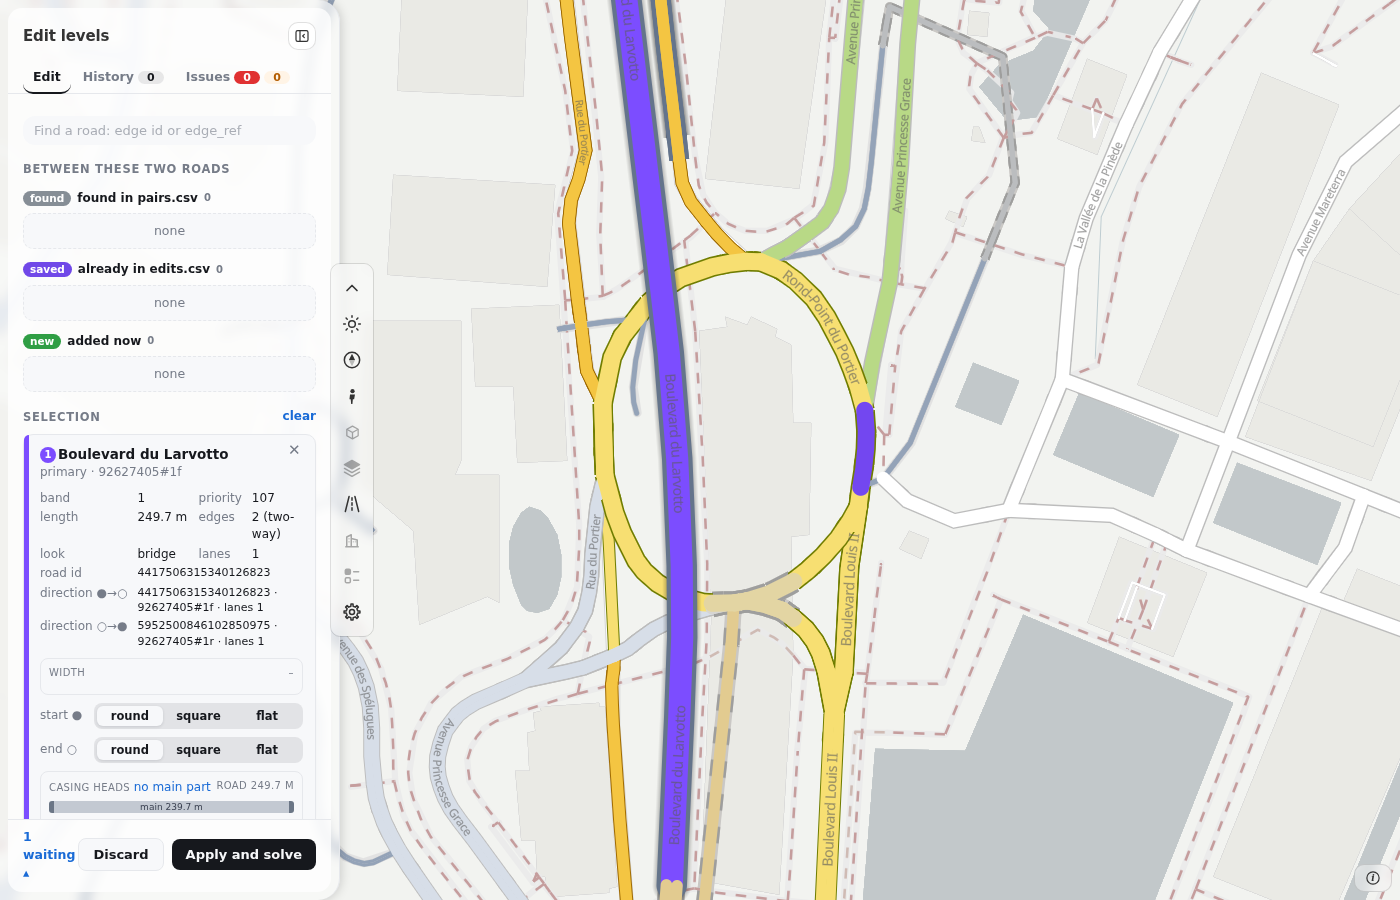
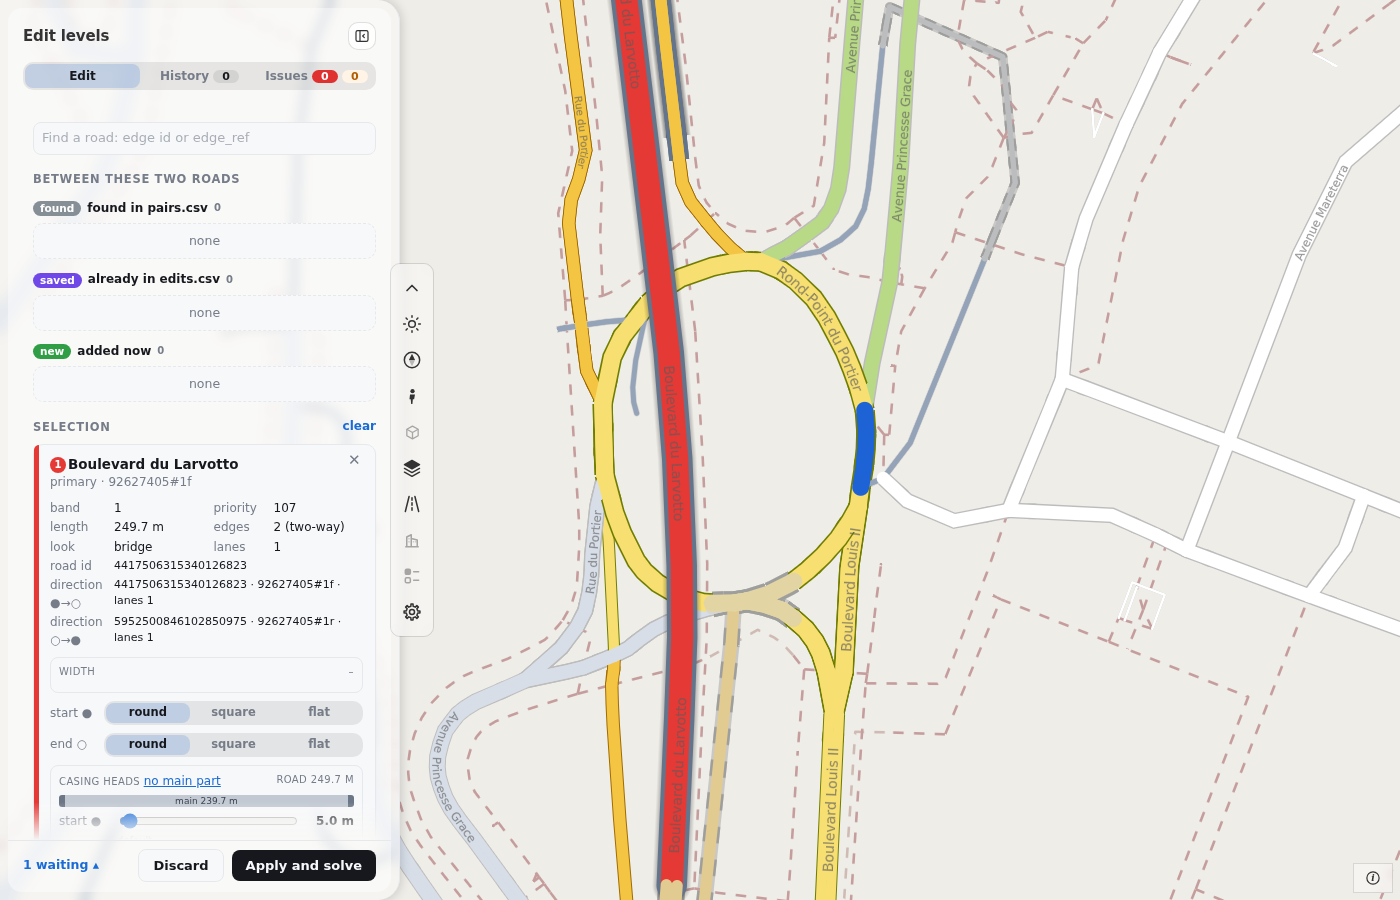
docs: Edit the levels (roadstyle levels edit AREA_DIR, levels make --boundary), the new editor screenshots (desktop and phone), the CLI entries and What is new in 0.26.0

diff --git a/docs/rust/architecture.md b/docs/rust/architecture.md
@@ -76,13 +76,13 @@ flowchart TB
     roadstyle_levels["roadstyle-levels<br/>2,851 lines"]
     roadstyle_engine["roadstyle-engine<br/>7,771 lines"]
     roadstyle_tiles["roadstyle-tiles<br/>2,603 lines"]
-    roadstyle["roadstyle<br/>3,505 lines"]
+    roadstyle["roadstyle<br/>3,506 lines"]
     roadstyle_rs["roadstyle-rs<br/>232 lines"]
     roadstyle_wasm["roadstyle-wasm<br/>709 lines"]
     roadstyle_py["roadstyle-py<br/>683 lines"]
-    roadstyle_cli["roadstyle-cli<br/>417 lines"]
+    roadstyle_cli["roadstyle-cli<br/>439 lines"]
     roadstyle_mcp["roadstyle-mcp<br/>289 lines"]
-    roadstyle_serve["roadstyle-serve<br/>283 lines"]
+    roadstyle_serve["roadstyle-serve<br/>291 lines"]
     roadstyle_snapshot["roadstyle-snapshot<br/>180 lines"]
     roadstyle_levels --> roadstyle_model
     roadstyle_assets --> roadstyle_look
@@ -126,16 +126,16 @@ step) takes this crate alone.
 | [`roadstyle-levels`](#roadstyle-levels) | roadstyle's drawing levels: the tags rule and the solver (a leaf crate: the road flags are its own module) | 2,851 | rstar, sha2 |
 | [`roadstyle-engine`](#roadstyle-engine) | roadstyle's rendering engine: the style of a map, the data-driven paint, the legend data, the base-map layers | 7,771 | `roadstyle-levels`, `roadstyle-look`, `roadstyle-model`, foldhash, indexmap, rstar, serde_json |
 | [`roadstyle-tiles`](#roadstyle-tiles) | roadstyle's vector tiles on request (the rules of tiles.py) | 2,603 | `roadstyle-model`, flate2, foldhash, indexmap, mlt-core, rstar, serde_json |
-| [`roadstyle`](#roadstyle) | roadstyle as a Rust library: the facade over the model, the readers, the levels, the engine and the tiles | 3,505 | `roadstyle-assets`, `roadstyle-engine`, `roadstyle-io`, `roadstyle-levels`, `roadstyle-look`, `roadstyle-model`, `roadstyle-tiles`, base64, flate2, serde, serde_json |
+| [`roadstyle`](#roadstyle) | roadstyle as a Rust library: the facade over the model, the readers, the levels, the engine and the tiles | 3,506 | `roadstyle-assets`, `roadstyle-engine`, `roadstyle-io`, `roadstyle-levels`, `roadstyle-look`, `roadstyle-model`, `roadstyle-tiles`, base64, flate2, serde, serde_json |
 | [`roadstyle-rs`](#roadstyle-rs) | The old name of the facade crate roadstyle, kept for one version | 232 | `roadstyle`, serde_json |
 | [`roadstyle-wasm`](#roadstyle-wasm) | The browser's front-end of roadstyle-rs: inlineStyle, Tiler, memoryBytes | 709 | `roadstyle`, serde_json, wasm-bindgen |
 | [`roadstyle-py`](#roadstyle-py) | The Python binding of roadstyle's Rust engine: the module roadstyle._rust (PyO3, abi3) | 683 | `roadstyle`, `roadstyle-serve`, arrow-array, pyo3, serde_json |
-| [`roadstyle-cli`](#roadstyle-cli) | The roadstyle program: one command for each job (serve: the level editor's files; snapshot: a PNG of a saved page) | 417 | `roadstyle`, `roadstyle-serve`, `roadstyle-snapshot`, serde_json |
+| [`roadstyle-cli`](#roadstyle-cli) | The roadstyle program: one command for each job (serve: the level editor's files; snapshot: a PNG of a saved page) | 439 | `roadstyle`, `roadstyle-serve`, `roadstyle-snapshot`, serde_json |
 | [`roadstyle-mcp`](#roadstyle-mcp) | MCP server for roadstyle: AI agents draw styled, interactive road maps of road files | 289 | `roadstyle`, `roadstyle-snapshot`, base64, rmcp, schemars, serde, serde_json, tokio |
-| [`roadstyle-serve`](#roadstyle-serve) | roadstyle serve: the level editor's page files and an area folder on 127.0.0.1 (the program and the Python binding call it) | 283 | `roadstyle-assets`, httparse |
+| [`roadstyle-serve`](#roadstyle-serve) | roadstyle serve: the level editor's page files and an area folder on 127.0.0.1 (the program and the Python binding call it) | 291 | `roadstyle-assets`, httparse |
 | [`roadstyle-snapshot`](#roadstyle-snapshot) | PNG pictures of saved roadstyle pages: Chromium over CDP draws the page, as roadstyle's Python snapshot does | 180 | anyhow, headless_chrome, serde_json |
 
-All crates: 26,658 lines of Rust in `rust/*/src/`.
+All crates: 26,689 lines of Rust in `rust/*/src/`.
 <!-- /gen:crates -->
 
 The crates read roadstyle's data (`src/roadstyle/data/`: the palettes, the profiles, the sprite) and the page files
@@ -316,7 +316,7 @@ Library, in `rust/roadstyle/`. Public API: `error`, `dashboard`, `level_area`, `
 | `level_editor` | 680 | The level editor in a page: an area folder's roads (roads.parquet, one row for each road with its edges both ways) and pairs, the solver of roadstyle-levels' `area`, and what the page draws and shows |  |
 | `options` | 52 | The keywords of a call (render_edges' flat keywords) that no part of roadstyle reads: not a map option (roadstyle_look::options), not a page key (page_options) and not a key of the style writer or of stage 2 |  |
 | `page` | 267 | The page writer: the HTML page of a live style (state "live") and the options of its dashboard |  |
-| `page_options` | 692 | Stage 3 of a page in one call (audit R3): `page_from` makes the page of a look's roads, as render_edges(backend="web") with the Rust engine (`_engine.render_page`) | `_engine.py`, `basemaps.py` |
+| `page_options` | 693 | Stage 3 of a page in one call (audit R3): `page_from` makes the page of a look's roads, as render_edges(backend="web") with the Rust engine (`_engine.render_page`) | `_engine.py`, `basemaps.py` |
 | `relevel` | 222 | The level editor's redraw: a tiled map whose roads get new levels, heads and caps |  |
 
 #### `roadstyle-rs` { #roadstyle-rs }
@@ -351,7 +351,7 @@ Library and program, in `rust/roadstyle-cli/`. Public API: `commands`, `Error`.
 | Module | Lines | What it does | Python counterpart |
 |---|---|---|---|
 | `lib` | 7 | The roadstyle program: one command for each job (commands.rs) |  |
-| `commands` | 348 | The commands of the roadstyle program (main.rs runs `run`): stage 1 (`sources`), stage 2 (`tiles`), a level area (`levels make`, `levels solve`) and the level editor (`serve`) |  |
+| `commands` | 370 | The commands of the roadstyle program (main.rs runs `run`): stage 1 (`sources`), stage 2 (`tiles`), a level area (`levels make`, `levels solve`) and the level editor (`levels edit`, `serve`) |  |
 | `error` | 53 | The errors of the program: one kind for each cause, each with the text that the program writes (the same text as before the type) |  |
 | `main` | 9 | `roadstyle <command>`: the roadstyle program (`roadstyle help` lists the commands: lib.rs, commands.rs) |  |
 
@@ -369,7 +369,7 @@ Library, in `rust/roadstyle-serve/`. Public API: `has_package`, `WRITABLE`, `MAX
 
 | Module | Lines | What it does | Python counterpart |
 |---|---|---|---|
-| `lib` | 283 | `roadstyle serve` (the program, roadstyle-cli, and the Python binding call it): the level editor's page files (in the program, `embedded`, or a folder) and an area folder under `/area/`, on 127.0.0.1 only |  |
+| `lib` | 291 | `roadstyle serve` (the program, roadstyle-cli, and the Python binding call it): the level editor's page files (in the program, `embedded`, or a folder) and an area folder under `/area/`, on 127.0.0.1 only |  |
 
 #### `roadstyle-snapshot` { #roadstyle-snapshot }
 
@@ -543,7 +543,7 @@ saved page still works offline.*
 
 | File | Lines | What it does | Window API |
 |---|---|---|---|
-| `api.js` | 159 | the runtime API of the interaction contract: one object for a host page, over the window.rs* functions of the controls |  |
+| `api.js` | 170 | the runtime API of the interaction contract: one object for a host page, over the window.rs* functions of the controls |  |
 | `arrows.js` | 164 | oneway direction-arrow icon (openstreetmap-carto) |  |
 | `basemap.js` | 153 | base-layer switching: window.rsSetBasemap(key|index) is the API (swaps the raster source's tiles; the road layers stay put); the dropdown is just UI over it and stays in sync | `RS_BASEMAPS`, `rsBuildings`, `rsSetBasemap` |
 | `basemapbox.js` | 93 | The base-map box: the heading "Base map", one radio row with a swatch for each map, a divider, and "On top": Hillshade, Labels and 3D buildings | `rsLabelsOn` |
@@ -558,14 +558,17 @@ saved page still works offline.*
 | `float.js` | 57 | shared by the Street View and Google 3D windows |  |
 | `generation.js` | 42 | the tiles' generation against the style's |  |
 | `google3d.js` | 351 | GOOGLE 3D window (google_3d=True, with a key): Google's photorealistic 3D view in a floating window, opened by its map button (or rsSetGoogle3D(true)) | `rsG3dDraw`, `rsG3dFollow`, `rsG3dLayers`, `rsG3dOwnDraw`, `rsLabelsTipExtra`, `rsRestoreWindows`, `rsSetGoogle3D`, `rsWindowRecentre` |
-| `index.js` | 156 | roadstyle's map dashboard, the entry: rsDashboard(map, options) adds the map controls and the road interaction of roadstyle's page to a MapLibre map | `rsReady`, `rsTools` |
+| `help.js` | 31 | The help window of a page: `rs.help.set({title, intro, terms: [[term, text], ...], note})` puts an "i" button in the panel's title and keeps the window that it opens |  |
+| `hover.js` | 23 | The hover box of a page: the words that a page shows near the pointer over its own chart or its own map layer |  |
+| `index.js` | 157 | roadstyle's map dashboard, the entry: rsDashboard(map, options) adds the map controls and the road interaction of roadstyle's page to a MapLibre map | `rsReady`, `rsTools` |
+| `kpi.js` | 6 | A number tile of a page: `rs.kpi(title, value, sub, color?)` is the HTML of one tile - a small title, a big number and a line under it - for a `<div class="rs-kpis">` (a grid of three) |  |
 | `legend.js` | 75 | the legend of the active "colour by" option: COLOR_OPTIONS[i].legend, {title, kind: "categorical", entries: [[label, colour, count?], ...]} or {title, kind: "continuous", ramp: [colour, ...], vmin, vmax, stepped} (stylers.bake_color_options; stepped: rs.setData's nearest stops, with a hard edge half-way between two stops) |  |
 | `live.js` | 91 | LIVE DATA (R22): rs.setData(table, options) joins a table to the roads, by edge_id or by the row, and gives each road its colour and its width factor as feature state on its row (the names of the style's metadata roadstyle:live: rs_c and rs_w), which the road layer reads |  |
 | `navbox.js` | 34 | The tool `navigate`: the one button for the map's view |  |
 | `overlay.js` | 64 | The overlay layout: the map fills the window and the panel floats over it |  |
 | `overlays.js` | 151 | extra overlay layers (zones / POIs / lines): click an interactive overlay -> popup of its fields; a Layers control toggles each overlay's visibility | `RS_OVERLAYS`, `rsGetOverlays`, `rsSetOverlay`, `rsSetOverlays` |
 | `panel.js` | 96 | panel mode: a full-height side panel hosts the map controls (colour-by, road filter, legend, host tools) and the selected road's record | `rsPanelShow` |
-| `panelscroll.js` | 22 | The scroll protocol of a panel: the header stays, only the body scrolls |  |
+| `panelscroll.js` | 42 | The scroll protocol of a panel: the header stays, only the body scrolls |  |
 | `placement.js` | 47 | The place of the bar and of the panel | `rsFreePad` |
 | `roadsbox.js` | 58 | The tool `roads`: the road filter in the bar |  |
 | `sections.js` | 67 | The panel's sections: the page adds a block to the panel, hides one of the panel's own, or moves one, with `rs.sections` or with the typed option `dashboard.panel.sections` / `hide`, and no longer edits the template's HTML as text |  |
@@ -573,11 +576,13 @@ saved page still works offline.*
 | `selectbox.js` | 73 | A select list in the look of the boxes |  |
 | `settings.js` | 88 | The tool `settings`: the person's own choices, kept in this browser only (localStorage, never in the page file): where the bar and the panel are, how transparent the layers are, and the keys of Google and CARTO | `rsOpenSettings` |
 | `streetview.js` | 118 | Street View window (street_view="window"): hidden until the map button (or rsSetStreetView(true)) opens it; then a draggable, resizable window over the map that follows every road selection | `rsSetStreetView` |
+| `svg.js` | 14 | The SVG helper of a page's charts: `rs.svg(parent, tag, attrs, text?)` makes one SVG element, sets its attributes and appends it |  |
 | `svspot.js` | 189 | GOOGLE STREET VIEW of the clicked edge (the window, the side-by-side page, or a plain link), looking the way the edge runs | `rsGetStreetViewSpot`, `rsSetStreetViewMarker`, `rsSetStreetViewMarkerAt`, `rsStreetViewStep` |
+| `tabs.js` | 32 | Tabs and the two-way switch of a page |  |
 | `template.js` | 53 | The dashboard template's phone form: the class `rs-phone` on <html> at the phone width or less (the first paint sets it; this keeps it current), and the bottom sheet of a sidebar (three heights: closed, 40 %, full) |  |
 | `theme.js` | 36 | The page's theme: <html data-rs-theme="light|dark">, which the popup, the tooltip and (later) the bar read (popup.css, dashboard.css) | `rsSetTheme` |
 | `tip.js` | 49 | The explanation of a button: the browser draws a `title` itself, in the system's style, so the page takes the `title` of a button of the bar, the boxes, the panels and the windows when the pointer comes (or the key focus), keeps its text in `data-rs-tip` and shows it in a box of the page's look |  |
-| `toolbar.js` | 151 | The bar: the tools of the registry on one bar at an edge of the window, in the look of the theme |  |
+| `toolbar.js` | 177 | The bar: the tools of the registry on one bar at an edge of the window, in the look of the theme |  |
 | `tools.js` | 143 | The tool registry |  |
 | `tunnel.js` | 69 | the tunnel look, v2's slider: TUNNEL.strength 0-100 moves a tunnel's colours toward TUNNEL.to.fill | `RS_TUNNEL_PALETTES`, `RS_TUNNEL_TOWARDS`, `rsSetTunnelStyle` |
 | `view3d.js` | 22 | 2D/3D camera: window.rsSetView3D(on) tilts to the configured camera.pitch_3d (2D also squares the bearing back to north); the toggle button is UI over it and follows any pitch change — its label shows the view it will switch TO | `rsSetView3D` |

diff --git a/docs/guides/levels.md b/docs/guides/levels.md
@@ -93,9 +93,36 @@ number of positions.
 The solver reads only the pairs, never the lines or the head lengths. Which parts of a stack cross is decided in the input, with the
 heads of that time.
 
-## Fix it by hand: the level editor
+## Edit the levels
 
-![The level editor in the dashboard's panel: Boulevard du Larvotto and Rond-Point du Portier picked, their cards, and the apply bar with one change waiting](../img/level-editor.png)
+Make an area, solve it, and open the editor. The Rust program `roadstyle` does all three with no Python:
+
+```bash
+roadstyle levels make edges.gpkg out/area --boundary area.geojson    # roads.parquet, pairs.csv, edits.csv, boundary.geojson
+roadstyle levels solve out/area                                      # levels.csv, levels_info.json
+roadstyle levels edit out/area                                       # the editor, http://127.0.0.1:8780/level_editor/
+```
+
+`--boundary` is optional. It takes a GeoJSON polygon, feature or feature collection, and keeps it as `boundary.geojson` in the area folder. The editor draws it as the dashed line
+of the area's edge, as a dashboard does. `levels edit AREA_DIR` checks that the folder has `roads.parquet`, serves the editor page and saves your changes. The Python commands
+`roadstyle-levels make`, `solve` and `edit` make the same files.
+
+<div class="grid" markdown>
+
+![The level editor on a desktop: Boulevard du Larvotto (red) and Rond-Point du Portier (blue) picked, their cards, and the apply bar with one change waiting](../img/level-editor.png)
+
+![The level editor on a phone: the bar at the top, the map, and the panel as a bottom sheet](../img/level-editor-phone.png){ width="260" }
+
+</div>
+
+The editor is the standard dashboard. It has the panel, the toolbox and the phone form of [Dashboard layout](dashboard-layout.md), in the light and the dark theme. These parts are the dashboard's own:
+
+- **The base-map box.** The map starts on the blank base map, as every dashboard does. The box has the base maps, the switches under *On top* (Hillshade, Labels, 3D buildings) and the dark twin that follows the theme.
+- **Red and blue picks.** Road 1 is red, and road 2 is blue. The hover has a light color of the road that the next click picks. A long road name ends with "…", so the rows stay inside the panel.
+- **Segmented tabs.** *Edit*, *History* and *Issues* are the dashboard's segmented control. The tabs scroll as the panel does: a thin scrollbar at the outer edge, a line under the header and a fade at the bottom.
+- **The area boundary.** The dashed line of `boundary.geojson`.
+- **The mode box.** When the roads have a `modes` column (driving, walking, cycling, bus, private), the box shows only the roads of the ticked modes.
+
 
 `roadstyle levels edit out/area` (or `roadstyle-levels edit out/area`) opens a local page with the map and a panel. Click a road, or find it by edge id or `edge_ref`. Pick a
 second road to see every pair between the two.

diff --git a/docs/index.md b/docs/index.md
@@ -94,8 +94,9 @@ rs.render_edges(edges).save("roads.html")  # one self-contained file, opens offl
   gives GeoJSON roads, and `tile_format="mvt"` gives MVT. One tiling rule serves the page, the browser worker, `export_style` and
   `roadstyle tiles`. [Big networks](guides/big-networks.md) · [Make tiles and PMTiles](rust/tiles.md) ·
   [Tiling](design/tiling.md)
-- **The level editor is in the dashboard.** It draws into the page's one standard panel, and the History tab has `edits.csv`.
-  [Which road is on top](guides/levels.md#edit-the-levels-in-a-dashboard)
+- **The level editor is in the dashboard.** `roadstyle levels edit AREA_DIR` opens it from the Rust program, with no Python. It draws into the page's one
+  standard panel, with the base-map box, red and blue picks, segmented tabs and the area boundary (`levels make --boundary`). The History tab has `edits.csv`.
+  [Edit the levels](guides/levels.md#edit-the-levels) · [in a dashboard](guides/levels.md#edit-the-levels-in-a-dashboard)
 - **Parts for a dashboard page.** The panel has shared parts: a help window (`rs.help`), a hover box (`rs.hover`), tabs (`rs.tabs`), number tiles (`rs.kpi`),
   scroll areas and tables, chart colours (`rs.svg`), chips and text boxes. `rs.classify` makes discrete colour classes for roads. The panel is 400 px wide.
   [Dashboard parts](guides/dashboard-parts.md)

diff --git a/README.md b/README.md
@@ -48,7 +48,7 @@
   why. On a phone the bar is one row that you move sideways, and the panel is a bottom sheet.
 - **Tiles by default, one rule.** Every page keeps its roads as MLT vector tiles to zoom 16, with one road layer for every zoom. The page, the
   browser worker, `export_style` and `roadstyle tiles` all use the same tiling rule. `tiles=False` gives GeoJSON roads, and `tile_format="mvt"` gives MVT.
-- **The level editor is in the panel.** It uses the page's standard panel, with an apply bar and `edits.csv` in the History tab.
+- **The level editor is in the panel.** `roadstyle levels edit AREA_DIR` opens it from the Rust program. It uses the page's standard panel, with an apply bar, red and blue picks, the area boundary (`levels make --boundary`) and `edits.csv` in the History tab.
 - **Shared dashboard parts.** Help window, hover box, tabs, number tiles, tables, charts and chips are in the panel's own look, in both themes.
   `rs.classify` makes colour classes for roads.
 

diff --git a/docs/gallery.md b/docs/gallery.md
@@ -35,7 +35,7 @@ More in [Which road is on top](guides/levels.md).
 ## Stacked roads
 
 Roads, ramps and tunnels crossing each other at several levels, each drawn in the right order. Any place can be fixed by hand in the
-[level editor](guides/levels.md#fix-it-by-hand-the-level-editor).
+[level editor](guides/levels.md#edit-the-levels).
 
 ```python
 rs.render_edges(edges)
